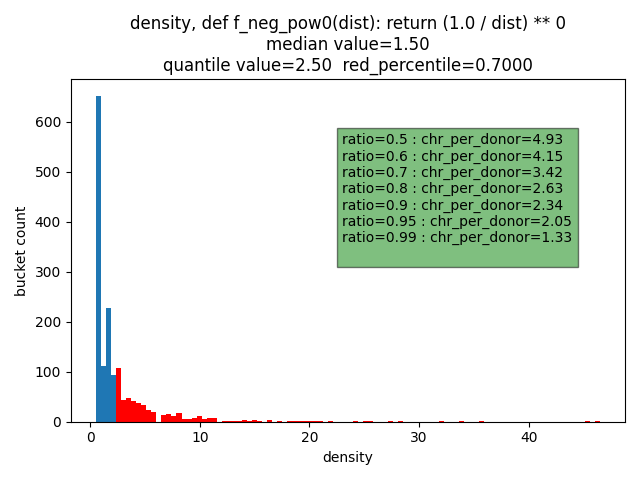
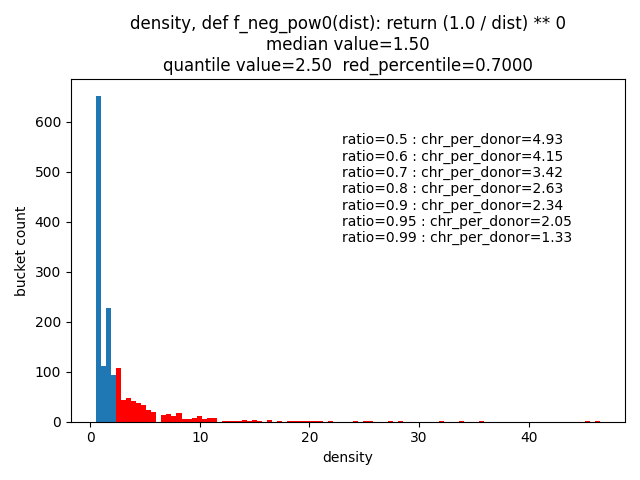
pre-defense-2 example

Changed region(s): [[0.5, 0.25, 0.9062, 0.5625]]

diff --git a/DonorAnalyzer.py b/DonorAnalyzer.py
@@ -454,7 +454,7 @@ def measure_chromos(chromo_clusters):
 
 
 def all_hists(ratio):
-    iss = [1]
+    iss = [1, 11]
     # for i in range(1, 4):
     for i in iss:
         # for i in range(1, max_range_pow + 1):
@@ -893,7 +893,7 @@ def donor_hill_metrics(donors, fid):
 if __name__ == '__main__':
     # main()
 
-    # all_hists(ratio=0.7)
+    #all_hists(ratio=0.7)
 
     # seek_test()
 
@@ -911,7 +911,7 @@ if __name__ == '__main__':
 
     # weighted_hist(11, 0.7)
 
-    l, r = seek_hills_distrib(0.7)
+    l, r = seek_hills_distrib(0.7, fid=11)
     print(l, r)
 
     # find_the_most_diff_seek_pair(11, 0.75)

diff --git a/tests/goldberg.py b/tests/goldberg.py
@@ -7,6 +7,15 @@ from utils.graph_generator import gen_random_graph
 
 
 class TestCase(unittest.TestCase):
+    def test_pre_defense(self):
+        number_of_nodes = 4
+        number_of_edges = 6
+        filepath = "weighted.txt"
+        ans = WFind_Densest_Subgraph(number_of_nodes, number_of_edges, filepath)
+        dens = WFind_Density(ans, filepath)
+        print(ans)
+        print(dens)
+
     def test_not_weighted(self):
         number_of_nodes = 15
         filepath = "random.txt"

diff --git a/DenseUtils.py b/DenseUtils.py
@@ -129,8 +129,7 @@ def plot_distribution(arr, store_path, function_code, label, xlabel, ratio, buck
     plt.xlabel(xlabel)
     plt.ylabel('bucket count')
     if text is not None:
-        t = plt.text(int(0.5 * max(arr)), int(0.5 * cnts_in_bucket[0]), text, fontsize=10)
-        t.set_bbox(dict(facecolor='green', alpha=0.5))
+        plt.text(int(0.5 * max(arr)), int(0.5 * cnts_in_bucket[0]), text, fontsize=10)
     plt.savefig(store_path)
     plt.show()
 
